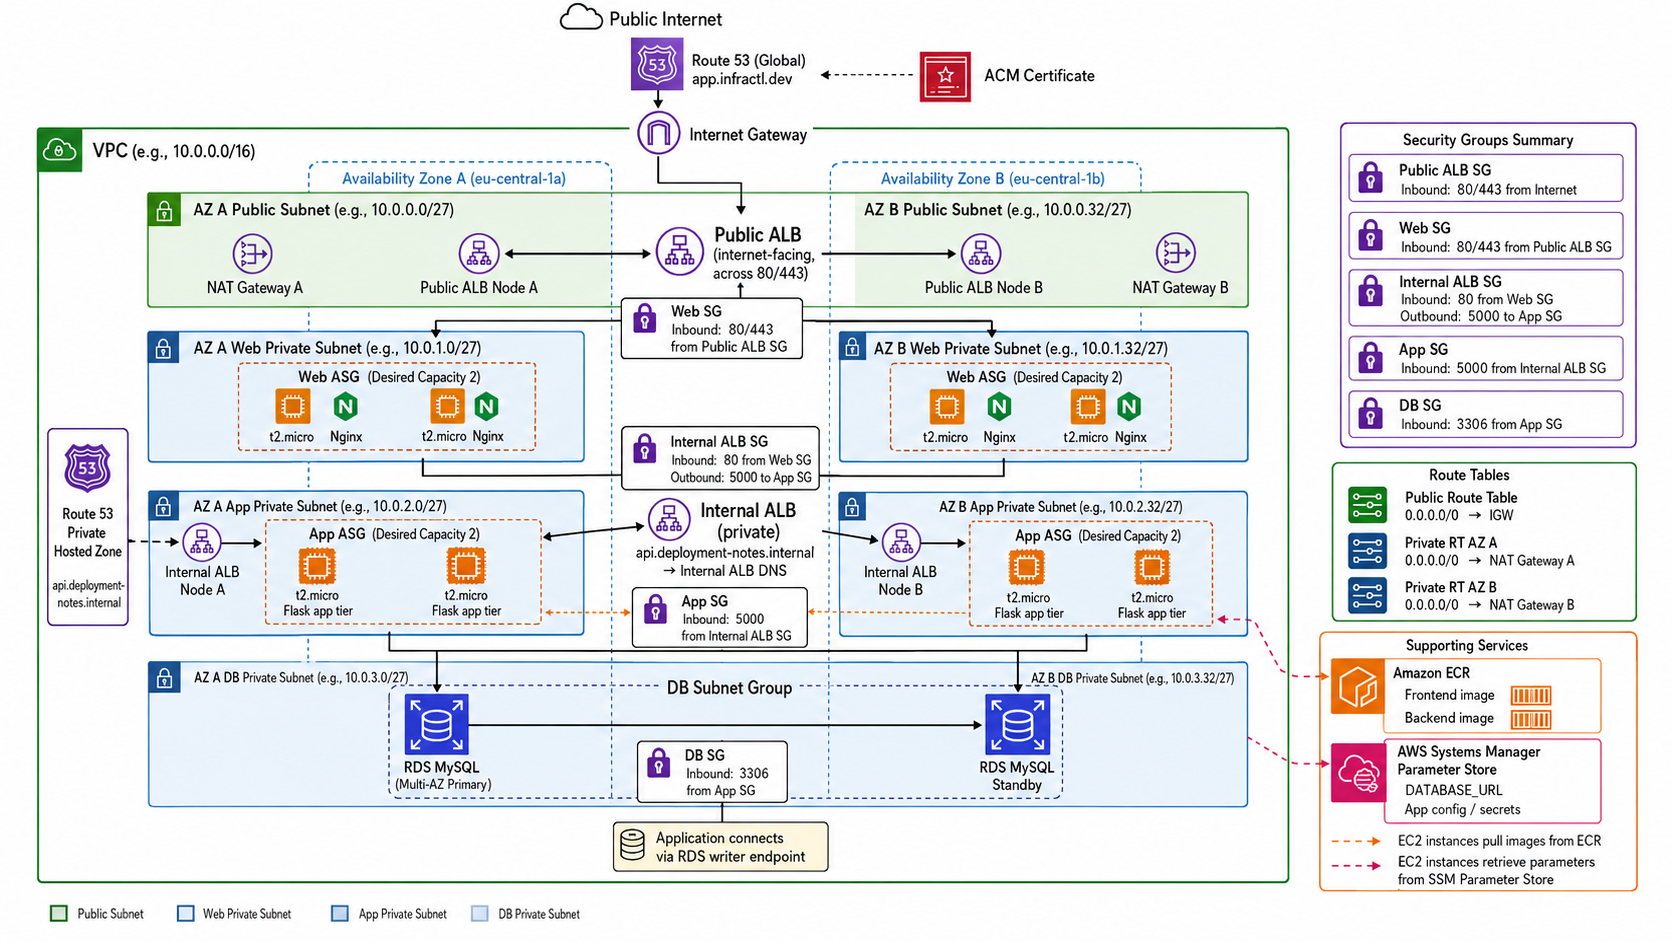
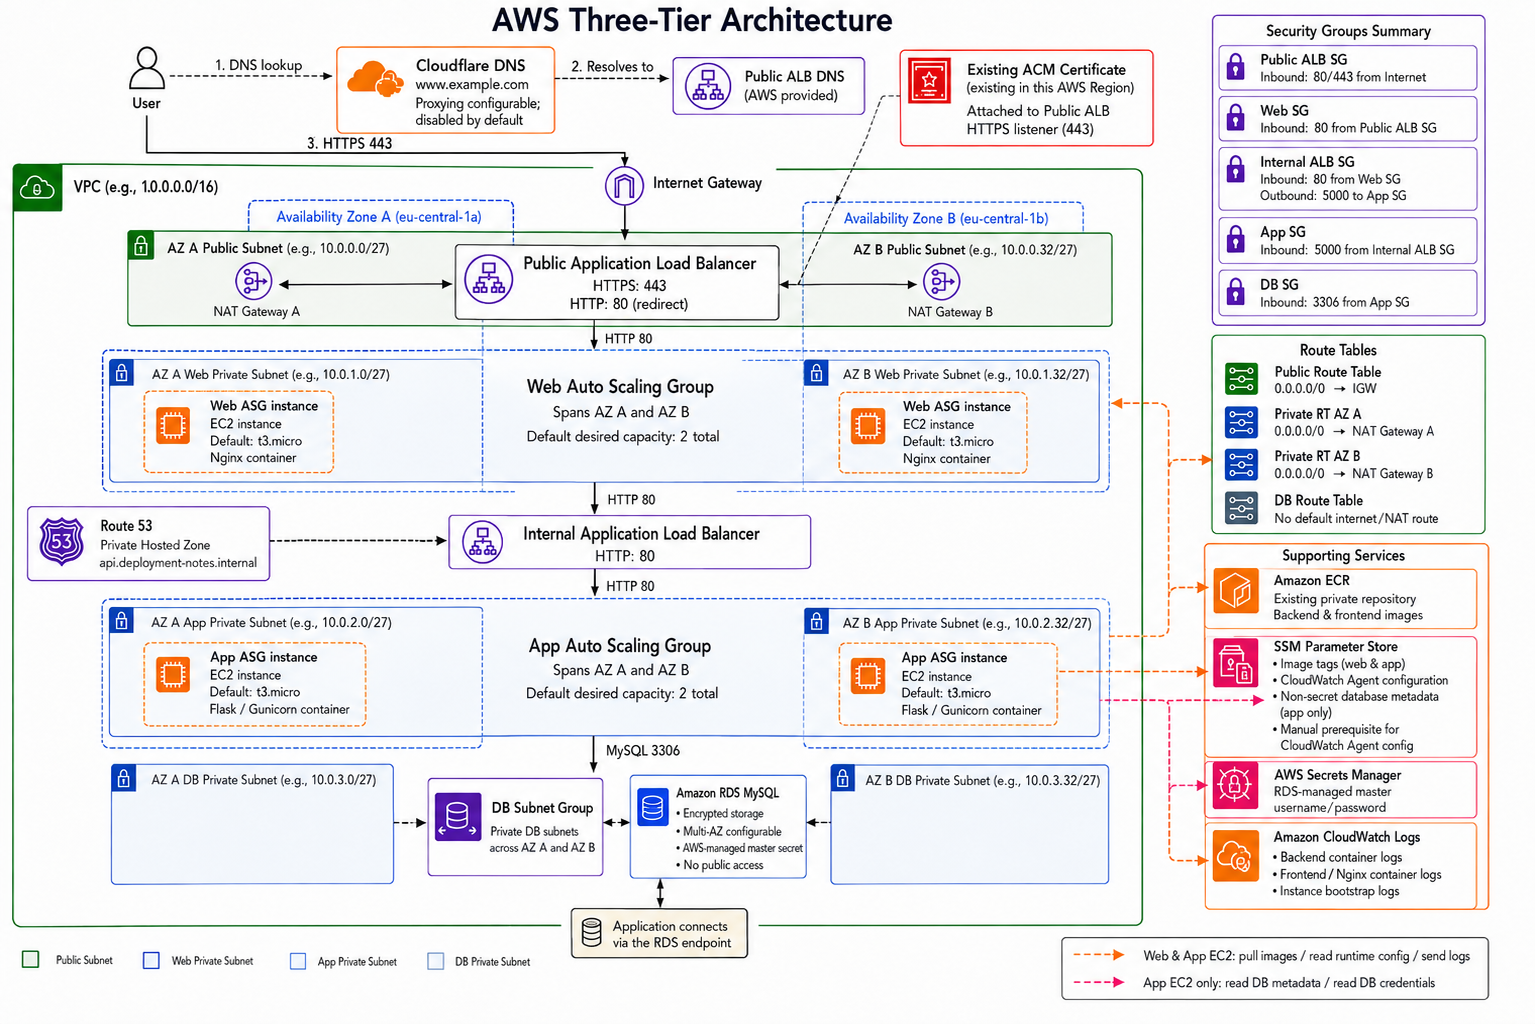
Update portfolio links and project content

Changed region(s): [[0.0, 0.0, 0.9798, 0.9862]]

diff --git a/portfolio-site/static-website.html b/portfolio-site/static-website.html
@@ -12,7 +12,7 @@
     <main class="site-frame overflow-clip rounded-lg border border-line">
       <header class="flex items-center justify-between gap-5 border-b border-line px-5 py-5 sm:px-8">
         <a href="index.html" class="flex items-center gap-3 text-sm text-white"><span class="terminal-prompt"></span><span>dev@portfolio:<span class="text-slate-500">~</span></span></a>
-        <div class="flex items-center gap-5"><a href="https://github.com/adelaspc/static-website" target="_blank" rel="noopener noreferrer" aria-label="Project repository on GitHub"><svg xmlns="http://www.w3.org/2000/svg" width="24" height="24" viewBox="0 0 24 24" fill="none" stroke="currentColor" stroke-width="2" stroke-linecap="round" stroke-linejoin="round" class="h-5 w-5" aria-hidden="true" focusable="false"><path d="M15 22v-4a4.8 4.8 0 0 0-1-3.5c3 0 6-2 6-5.5.08-1.25-.27-2.48-1-3.5.28-1.15.28-2.35 0-3.5 0 0-1 0-3 1.5-2.64-.5-5.36-.5-8 0C6 2 5 2 5 2c-.3 1.15-.3 2.35 0 3.5A5.403 5.403 0 0 0 4 9c0 3.5 3 5.5 6 5.5-.39.49-.68 1.05-.85 1.65-.17.6-.22 1.23-.15 1.85v4" /><path d="M9 18c-4.51 2-5-2-7-2" /></svg></a><a href="#" aria-label="LinkedIn"><svg xmlns="http://www.w3.org/2000/svg" width="24" height="24" viewBox="0 0 24 24" fill="none" stroke="currentColor" stroke-width="2" stroke-linecap="round" stroke-linejoin="round" class="h-5 w-5" aria-hidden="true" focusable="false"><path d="M16 8a6 6 0 0 1 6 6v7h-4v-7a2 2 0 0 0-2-2 2 2 0 0 0-2 2v7h-4v-7a6 6 0 0 1 6-6z" /><rect width="4" height="12" x="2" y="9" /><circle cx="4" cy="4" r="2" /></svg></a><a href="mailto:email@your-domain.dev" aria-label="Email"><svg xmlns="http://www.w3.org/2000/svg" width="24" height="24" viewBox="0 0 24 24" fill="none" stroke="currentColor" stroke-width="2" stroke-linecap="round" stroke-linejoin="round" class="h-5 w-5" aria-hidden="true" focusable="false"><path d="m22 7-8.991 5.727a2 2 0 0 1-2.009 0L2 7" /><rect x="2" y="4" width="20" height="16" rx="2" /></svg></a></div>
+        <div class="flex items-center gap-5"><a href="https://github.com/adelaspc/static-website" target="_blank" rel="noopener noreferrer" aria-label="Static website repository on GitHub"><svg xmlns="http://www.w3.org/2000/svg" width="24" height="24" viewBox="0 0 24 24" fill="none" stroke="currentColor" stroke-width="2" stroke-linecap="round" stroke-linejoin="round" class="h-5 w-5" aria-hidden="true" focusable="false"><path d="M15 22v-4a4.8 4.8 0 0 0-1-3.5c3 0 6-2 6-5.5.08-1.25-.27-2.48-1-3.5.28-1.15.28-2.35 0-3.5 0 0-1 0-3 1.5-2.64-.5-5.36-.5-8 0C6 2 5 2 5 2c-.3 1.15-.3 2.35 0 3.5A5.403 5.403 0 0 0 4 9c0 3.5 3 5.5 6 5.5-.39.49-.68 1.05-.85 1.65-.17.6-.22 1.23-.15 1.85v4" /><path d="M9 18c-4.51 2-5-2-7-2" /></svg></a></div>
       </header>
 
       <section class="portfolio-hero px-6 py-8 sm:px-10 lg:px-14">
@@ -327,7 +327,7 @@
           </div><div class="mt-4 flex items-center justify-between"><button data-prev type="button" class="rounded border border-line p-2 hover:text-accent" aria-label="Previous diagram"><svg xmlns="http://www.w3.org/2000/svg" width="24" height="24" viewBox="0 0 24 24" fill="none" stroke="currentColor" stroke-width="2" stroke-linecap="round" stroke-linejoin="round" class="h-4 w-4" aria-hidden="true" focusable="false"><path d="m12 19-7-7 7-7" /><path d="M19 12H5" /></svg></button><div data-dots class="flex gap-2" aria-label="Choose diagram"></div><button data-next type="button" class="rounded border border-line p-2 hover:text-accent" aria-label="Next diagram"><svg xmlns="http://www.w3.org/2000/svg" width="24" height="24" viewBox="0 0 24 24" fill="none" stroke="currentColor" stroke-width="2" stroke-linecap="round" stroke-linejoin="round" class="h-4 w-4" aria-hidden="true" focusable="false"><path d="M5 12h14" /><path d="m12 5 7 7-7 7" /></svg></button></div></div>
         </section>
       </div>
-      <footer class="flex flex-wrap justify-between gap-4 border-t border-line px-6 py-6 text-xs text-slate-500"><a href="index.html#projects" class="text-accent">← back to projects</a><a href="https://github.com/adelaspc/static-website" target="_blank" rel="noopener noreferrer" class="hover:text-accent">GitHub repository ↗</a><p>© 2026 Your Name</p></footer>
+      <footer class="flex flex-wrap justify-between gap-4 border-t border-line px-6 py-6 text-xs text-slate-500"><a href="index.html#projects" class="text-accent">← back to projects</a><a href="https://github.com/adelaspc/static-website" target="_blank" rel="noopener noreferrer" class="hover:text-accent">GitHub repository ↗</a><p>© 2026 Adela</p></footer>
     </main>
   </div>
   <div data-lightbox class="lightbox fixed inset-0 z-50 place-items-center bg-black/90 p-3 sm:p-8" hidden role="dialog" aria-modal="true" aria-label="Diagram viewer"><button data-lightbox-close type="button" class="absolute right-5 top-5 rounded border border-slate-600 bg-black/50 p-3 text-white" aria-label="Close viewer"><svg xmlns="http://www.w3.org/2000/svg" width="24" height="24" viewBox="0 0 24 24" fill="none" stroke="currentColor" stroke-width="2" stroke-linecap="round" stroke-linejoin="round" class="h-5 w-5" aria-hidden="true" focusable="false"><path d="M18 6 6 18" /><path d="m6 6 12 12" /></svg></button><button data-lightbox-prev type="button" class="absolute left-3 top-1/2 rounded border border-slate-600 bg-black/50 p-3 text-white sm:left-6" aria-label="Previous image"><svg xmlns="http://www.w3.org/2000/svg" width="24" height="24" viewBox="0 0 24 24" fill="none" stroke="currentColor" stroke-width="2" stroke-linecap="round" stroke-linejoin="round" class="h-5 w-5" aria-hidden="true" focusable="false"><path d="m12 19-7-7 7-7" /><path d="M19 12H5" /></svg></button><div class="max-h-[85vh] max-w-[90vw]"><img data-lightbox-image alt="" class="max-h-[78vh] max-w-full object-contain" /><div data-lightbox-placeholder class="grid h-[60vh] w-[80vw] max-w-5xl place-items-center rounded border border-line bg-[#090e13] text-slate-500">Diagram unavailable</div><p data-lightbox-caption class="mt-3 text-center text-xs text-slate-400"></p></div><button data-lightbox-next type="button" class="absolute right-3 top-1/2 rounded border border-slate-600 bg-black/50 p-3 text-white sm:right-6" aria-label="Next image"><svg xmlns="http://www.w3.org/2000/svg" width="24" height="24" viewBox="0 0 24 24" fill="none" stroke="currentColor" stroke-width="2" stroke-linecap="round" stroke-linejoin="round" class="h-5 w-5" aria-hidden="true" focusable="false"><path d="M5 12h14" /><path d="m12 5 7 7-7 7" /></svg></button></div>

diff --git a/portfolio-site/aws-3tier-architecture.html b/portfolio-site/aws-3tier-architecture.html
@@ -15,7 +15,7 @@
     <main class="site-frame overflow-clip rounded-lg border border-line">
       <header class="flex items-center justify-between gap-5 border-b border-line px-5 py-5 sm:px-8">
         <a href="index.html" class="flex items-center gap-3 text-sm text-white"><span class="terminal-prompt"></span><span>dev@portfolio:<span class="text-slate-500">~</span></span></a>
-        <a href="https://github.com/adelaspc" target="_blank" rel="noopener noreferrer" class="hover:text-accent" aria-label="adelaspc on GitHub"><svg xmlns="http://www.w3.org/2000/svg" width="24" height="24" viewBox="0 0 24 24" fill="none" stroke="currentColor" stroke-width="2" stroke-linecap="round" stroke-linejoin="round" class="h-5 w-5" aria-hidden="true" focusable="false"><path d="M15 22v-4a4.8 4.8 0 0 0-1-3.5c3 0 6-2 6-5.5.08-1.25-.27-2.48-1-3.5.28-1.15.28-2.35 0-3.5 0 0-1 0-3 1.5-2.64-.5-5.36-.5-8 0C6 2 5 2 5 2c-.3 1.15-.3 2.35 0 3.5A5.403 5.403 0 0 0 4 9c0 3.5 3 5.5 6 5.5-.39.49-.68 1.05-.85 1.65-.17.6-.22 1.23-.15 1.85v4" /><path d="M9 18c-4.51 2-5-2-7-2" /></svg></a>
+        <a href="https://github.com/adelaspc/aws-3tier-architecture" target="_blank" rel="noopener noreferrer" class="hover:text-accent" aria-label="AWS 3-tier architecture repository on GitHub"><svg xmlns="http://www.w3.org/2000/svg" width="24" height="24" viewBox="0 0 24 24" fill="none" stroke="currentColor" stroke-width="2" stroke-linecap="round" stroke-linejoin="round" class="h-5 w-5" aria-hidden="true" focusable="false"><path d="M15 22v-4a4.8 4.8 0 0 0-1-3.5c3 0 6-2 6-5.5.08-1.25-.27-2.48-1-3.5.28-1.15.28-2.35 0-3.5 0 0-1 0-3 1.5-2.64-.5-5.36-.5-8 0C6 2 5 2 5 2c-.3 1.15-.3 2.35 0 3.5A5.403 5.403 0 0 0 4 9c0 3.5 3 5.5 6 5.5-.39.49-.68 1.05-.85 1.65-.17.6-.22 1.23-.15 1.85v4" /><path d="M9 18c-4.51 2-5-2-7-2" /></svg></a>
       </header>
 
       <section class="px-6 py-8 sm:px-10 lg:px-14">
@@ -26,7 +26,7 @@
             <div>
               <h1 class="text-3xl leading-tight text-white sm:text-4xl xl:text-5xl">AWS Cloud Infrastructure</h1>
               <p class="mt-4 max-w-4xl text-sm leading-7 text-slate-300 sm:text-base">A production-inspired AWS environment for running a containerized web application securely and consistently.</p>
-              <p class="mt-6 text-xs text-slate-500"><span class="mr-3">•</span> Personal Project <span class="mx-3">•</span> <a href="https://github.com/adelaspc" target="_blank" rel="noopener noreferrer" class="text-accent">GitHub profile ↗</a></p>
+              <p class="mt-6 text-xs text-slate-500"><span class="mr-3">•</span> Personal Project <span class="mx-3">•</span> <a href="https://github.com/adelaspc/aws-3tier-architecture" target="_blank" rel="noopener noreferrer" class="text-accent">GitHub repository ↗</a></p>
             </div>
           </div>
           <dl class="panel rounded-lg border border-line p-5 text-xs sm:p-6"><div class="flex justify-between gap-4 border-b border-line pb-5"><dt>Project Status</dt><dd class="text-accent">● In Progress</dd></div><div class="flex justify-between gap-4 border-b border-line py-5"><dt>Type</dt><dd class="text-white">Infrastructure</dd></div><div class="flex justify-between gap-4 pt-5"><dt>Duration</dt><dd class="text-white">3+ months</dd></div></dl>
@@ -325,7 +325,7 @@
           </div>
         </section>
       </div>
-      <footer class="flex flex-wrap justify-between gap-4 border-t border-line px-6 py-6 text-xs text-slate-500"><a href="index.html#projects" class="text-accent">← back to projects</a><a href="https://github.com/adelaspc" target="_blank" rel="noopener noreferrer" class="hover:text-accent">GitHub ↗</a><p>© 2026 adelaspc</p></footer>
+      <footer class="flex flex-wrap justify-between gap-4 border-t border-line px-6 py-6 text-xs text-slate-500"><a href="index.html#projects" class="text-accent">← back to projects</a><a href="https://github.com/adelaspc/aws-3tier-architecture" target="_blank" rel="noopener noreferrer" class="hover:text-accent">GitHub repository ↗</a><p>© 2026 adelaspc</p></footer>
     </main>
   </div>
   <div data-lightbox class="lightbox fixed inset-0 z-50 place-items-center bg-black/90 p-3 sm:p-8" hidden role="dialog" aria-modal="true" aria-label="Diagram viewer"><button data-lightbox-close type="button" class="absolute right-5 top-5 rounded border border-slate-600 bg-black/50 p-3 text-white" aria-label="Close viewer"><svg xmlns="http://www.w3.org/2000/svg" width="24" height="24" viewBox="0 0 24 24" fill="none" stroke="currentColor" stroke-width="2" stroke-linecap="round" stroke-linejoin="round" class="h-5 w-5" aria-hidden="true" focusable="false"><path d="M18 6 6 18" /><path d="m6 6 12 12" /></svg></button><button data-lightbox-prev type="button" class="absolute left-3 top-1/2 rounded border border-slate-600 bg-black/50 p-3 text-white sm:left-6" aria-label="Previous image"><svg xmlns="http://www.w3.org/2000/svg" width="24" height="24" viewBox="0 0 24 24" fill="none" stroke="currentColor" stroke-width="2" stroke-linecap="round" stroke-linejoin="round" class="h-5 w-5" aria-hidden="true" focusable="false"><path d="m12 19-7-7 7-7" /><path d="M19 12H5" /></svg></button><div class="max-h-[85vh] max-w-[90vw]"><img data-lightbox-image alt="Enlarged project diagram" class="max-h-[78vh] max-w-full object-contain" /><div data-lightbox-placeholder class="grid h-[60vh] w-[80vw] max-w-5xl place-items-center rounded border border-line bg-[#090e13] text-slate-500">Image preview unavailable</div><p data-lightbox-caption class="mt-3 text-center text-xs text-slate-400"></p></div><button data-lightbox-next type="button" class="absolute right-3 top-1/2 rounded border border-slate-600 bg-black/50 p-3 text-white sm:right-6" aria-label="Next image"><svg xmlns="http://www.w3.org/2000/svg" width="24" height="24" viewBox="0 0 24 24" fill="none" stroke="currentColor" stroke-width="2" stroke-linecap="round" stroke-linejoin="round" class="h-5 w-5" aria-hidden="true" focusable="false"><path d="M5 12h14" /><path d="m12 5 7 7-7 7" /></svg></button></div>

diff --git a/portfolio-site/index.html b/portfolio-site/index.html
@@ -15,9 +15,7 @@
           <span class="terminal-prompt text-accent"></span><span>dev@portfolio:<span class="text-slate-500">~</span></span>
         </a>
         <div class="flex items-center gap-5 text-slate-300">
-          <a href="#" aria-label="GitHub" class="hover:text-accent"><svg xmlns="http://www.w3.org/2000/svg" width="24" height="24" viewBox="0 0 24 24" fill="none" stroke="currentColor" stroke-width="2" stroke-linecap="round" stroke-linejoin="round" class="h-5 w-5" aria-hidden="true" focusable="false"><path d="M15 22v-4a4.8 4.8 0 0 0-1-3.5c3 0 6-2 6-5.5.08-1.25-.27-2.48-1-3.5.28-1.15.28-2.35 0-3.5 0 0-1 0-3 1.5-2.64-.5-5.36-.5-8 0C6 2 5 2 5 2c-.3 1.15-.3 2.35 0 3.5A5.403 5.403 0 0 0 4 9c0 3.5 3 5.5 6 5.5-.39.49-.68 1.05-.85 1.65-.17.6-.22 1.23-.15 1.85v4" /><path d="M9 18c-4.51 2-5-2-7-2" /></svg></a>
-          <a href="#" aria-label="LinkedIn" class="hover:text-accent"><svg xmlns="http://www.w3.org/2000/svg" width="24" height="24" viewBox="0 0 24 24" fill="none" stroke="currentColor" stroke-width="2" stroke-linecap="round" stroke-linejoin="round" class="h-5 w-5" aria-hidden="true" focusable="false"><path d="M16 8a6 6 0 0 1 6 6v7h-4v-7a2 2 0 0 0-2-2 2 2 0 0 0-2 2v7h-4v-7a6 6 0 0 1 6-6z" /><rect width="4" height="12" x="2" y="9" /><circle cx="4" cy="4" r="2" /></svg></a>
-          <a href="mailto:email@your-domain.dev" aria-label="Email" class="hover:text-accent"><svg xmlns="http://www.w3.org/2000/svg" width="24" height="24" viewBox="0 0 24 24" fill="none" stroke="currentColor" stroke-width="2" stroke-linecap="round" stroke-linejoin="round" class="h-5 w-5" aria-hidden="true" focusable="false"><path d="m22 7-8.991 5.727a2 2 0 0 1-2.009 0L2 7" /><rect x="2" y="4" width="20" height="16" rx="2" /></svg></a>
+          <a href="https://github.com/adelaspc" target="_blank" rel="noopener noreferrer" aria-label="adelaspc on GitHub" class="hover:text-accent"><svg xmlns="http://www.w3.org/2000/svg" width="24" height="24" viewBox="0 0 24 24" fill="none" stroke="currentColor" stroke-width="2" stroke-linecap="round" stroke-linejoin="round" class="h-5 w-5" aria-hidden="true" focusable="false"><path d="M15 22v-4a4.8 4.8 0 0 0-1-3.5c3 0 6-2 6-5.5.08-1.25-.27-2.48-1-3.5.28-1.15.28-2.35 0-3.5 0 0-1 0-3 1.5-2.64-.5-5.36-.5-8 0C6 2 5 2 5 2c-.3 1.15-.3 2.35 0 3.5A5.403 5.403 0 0 0 4 9c0 3.5 3 5.5 6 5.5-.39.49-.68 1.05-.85 1.65-.17.6-.22 1.23-.15 1.85v4" /><path d="M9 18c-4.51 2-5-2-7-2" /></svg></a>
         </div>
       </header>
 
@@ -93,8 +91,8 @@
       </div>
 
       <footer class="flex flex-wrap items-center justify-between gap-5 border-t border-line px-6 py-6 text-xs text-slate-500 sm:px-8">
-        <div><p class="text-accent">&gt; let’s_connect</p><div class="mt-3 flex gap-4"><a href="#" aria-label="GitHub"><svg xmlns="http://www.w3.org/2000/svg" width="24" height="24" viewBox="0 0 24 24" fill="none" stroke="currentColor" stroke-width="2" stroke-linecap="round" stroke-linejoin="round" class="h-4 w-4" aria-hidden="true" focusable="false"><path d="M15 22v-4a4.8 4.8 0 0 0-1-3.5c3 0 6-2 6-5.5.08-1.25-.27-2.48-1-3.5.28-1.15.28-2.35 0-3.5 0 0-1 0-3 1.5-2.64-.5-5.36-.5-8 0C6 2 5 2 5 2c-.3 1.15-.3 2.35 0 3.5A5.403 5.403 0 0 0 4 9c0 3.5 3 5.5 6 5.5-.39.49-.68 1.05-.85 1.65-.17.6-.22 1.23-.15 1.85v4" /><path d="M9 18c-4.51 2-5-2-7-2" /></svg></a><a href="#" aria-label="LinkedIn"><svg xmlns="http://www.w3.org/2000/svg" width="24" height="24" viewBox="0 0 24 24" fill="none" stroke="currentColor" stroke-width="2" stroke-linecap="round" stroke-linejoin="round" class="h-4 w-4" aria-hidden="true" focusable="false"><path d="M16 8a6 6 0 0 1 6 6v7h-4v-7a2 2 0 0 0-2-2 2 2 0 0 0-2 2v7h-4v-7a6 6 0 0 1 6-6z" /><rect width="4" height="12" x="2" y="9" /><circle cx="4" cy="4" r="2" /></svg></a><a href="mailto:email@your-domain.dev" aria-label="Email"><svg xmlns="http://www.w3.org/2000/svg" width="24" height="24" viewBox="0 0 24 24" fill="none" stroke="currentColor" stroke-width="2" stroke-linecap="round" stroke-linejoin="round" class="h-4 w-4" aria-hidden="true" focusable="false"><path d="m22 7-8.991 5.727a2 2 0 0 1-2.009 0L2 7" /><rect x="2" y="4" width="20" height="16" rx="2" /></svg></a></div></div>
-        <p>© 2026 Your Name. All rights reserved.</p><p>Built with ☕ and lots of ☁</p>
+        <div><p class="text-accent">&gt; let’s_connect</p><div class="mt-3 flex gap-4"><a href="https://github.com/adelaspc" target="_blank" rel="noopener noreferrer" aria-label="adelaspc on GitHub"><svg xmlns="http://www.w3.org/2000/svg" width="24" height="24" viewBox="0 0 24 24" fill="none" stroke="currentColor" stroke-width="2" stroke-linecap="round" stroke-linejoin="round" class="h-4 w-4" aria-hidden="true" focusable="false"><path d="M15 22v-4a4.8 4.8 0 0 0-1-3.5c3 0 6-2 6-5.5.08-1.25-.27-2.48-1-3.5.28-1.15.28-2.35 0-3.5 0 0-1 0-3 1.5-2.64-.5-5.36-.5-8 0C6 2 5 2 5 2c-.3 1.15-.3 2.35 0 3.5A5.403 5.403 0 0 0 4 9c0 3.5 3 5.5 6 5.5-.39.49-.68 1.05-.85 1.65-.17.6-.22 1.23-.15 1.85v4" /><path d="M9 18c-4.51 2-5-2-7-2" /></svg></a></div></div>
+        <p>© 2026 Adela. All rights reserved.</p><p>Built with ☕ and lots of ☁</p>
       </footer>
     </main>
   </div>

diff --git a/portfolio-site/autodeploy-platform.html b/portfolio-site/autodeploy-platform.html
@@ -13,7 +13,7 @@
     <main class="site-frame overflow-clip rounded-lg border border-line">
       <header class="flex items-center justify-between gap-5 border-b border-line px-5 py-5 sm:px-8">
         <a href="index.html" class="flex items-center gap-3 text-sm text-white"><span class="terminal-prompt"></span><span>dev@portfolio:<span class="text-slate-500">~</span></span></a>
-        <a href="https://github.com/adelaspc" target="_blank" rel="noopener noreferrer" class="hover:text-accent" aria-label="adelaspc on GitHub">
+        <a href="https://github.com/adelaspc/autodeploy-platform" target="_blank" rel="noopener noreferrer" class="hover:text-accent" aria-label="AutoDeploy platform repository on GitHub">
           <svg xmlns="http://www.w3.org/2000/svg" width="24" height="24" viewBox="0 0 24 24" fill="none" stroke="currentColor" stroke-width="2" stroke-linecap="round" stroke-linejoin="round" class="h-5 w-5" aria-hidden="true"><path d="M15 22v-4a4.8 4.8 0 0 0-1-3.5c3 0 6-2 6-5.5.08-1.25-.27-2.48-1-3.5.28-1.15.28-2.35 0-3.5 0 0-1 0-3 1.5-2.64-.5-5.36-.5-8 0C6 2 5 2 5 2c-.3 1.15-.3 2.35 0 3.5A5.403 5.403 0 0 0 4 9c0 3.5 3 5.5 6 5.5-.39.49-.68 1.05-.85 1.65-.17.6-.22 1.23-.15 1.85v4" /><path d="M9 18c-4.51 2-5-2-7-2" /></svg>
         </a>
       </header>
@@ -36,7 +36,7 @@
                 </div>
                 <aside class="autodeploy-hero-purpose">Built to explore how modern deployment platforms combine containers, Kubernetes, CI/CD and infrastructure automation.</aside>
               </div>
-              <p class="mt-6 text-xs text-slate-500"><span class="mr-3">•</span> Personal Project <span class="mx-3">•</span> <a href="https://github.com/adelaspc" target="_blank" rel="noopener noreferrer" class="text-accent">GitHub profile ↗</a></p>
+              <p class="mt-6 text-xs text-slate-500"><span class="mr-3">•</span> Personal Project <span class="mx-3">•</span> <a href="https://github.com/adelaspc/autodeploy-platform" target="_blank" rel="noopener noreferrer" class="text-accent">GitHub repository ↗</a></p>
             </div>
           </div>
           <dl class="panel rounded-lg border border-line p-5 text-xs sm:p-6">
